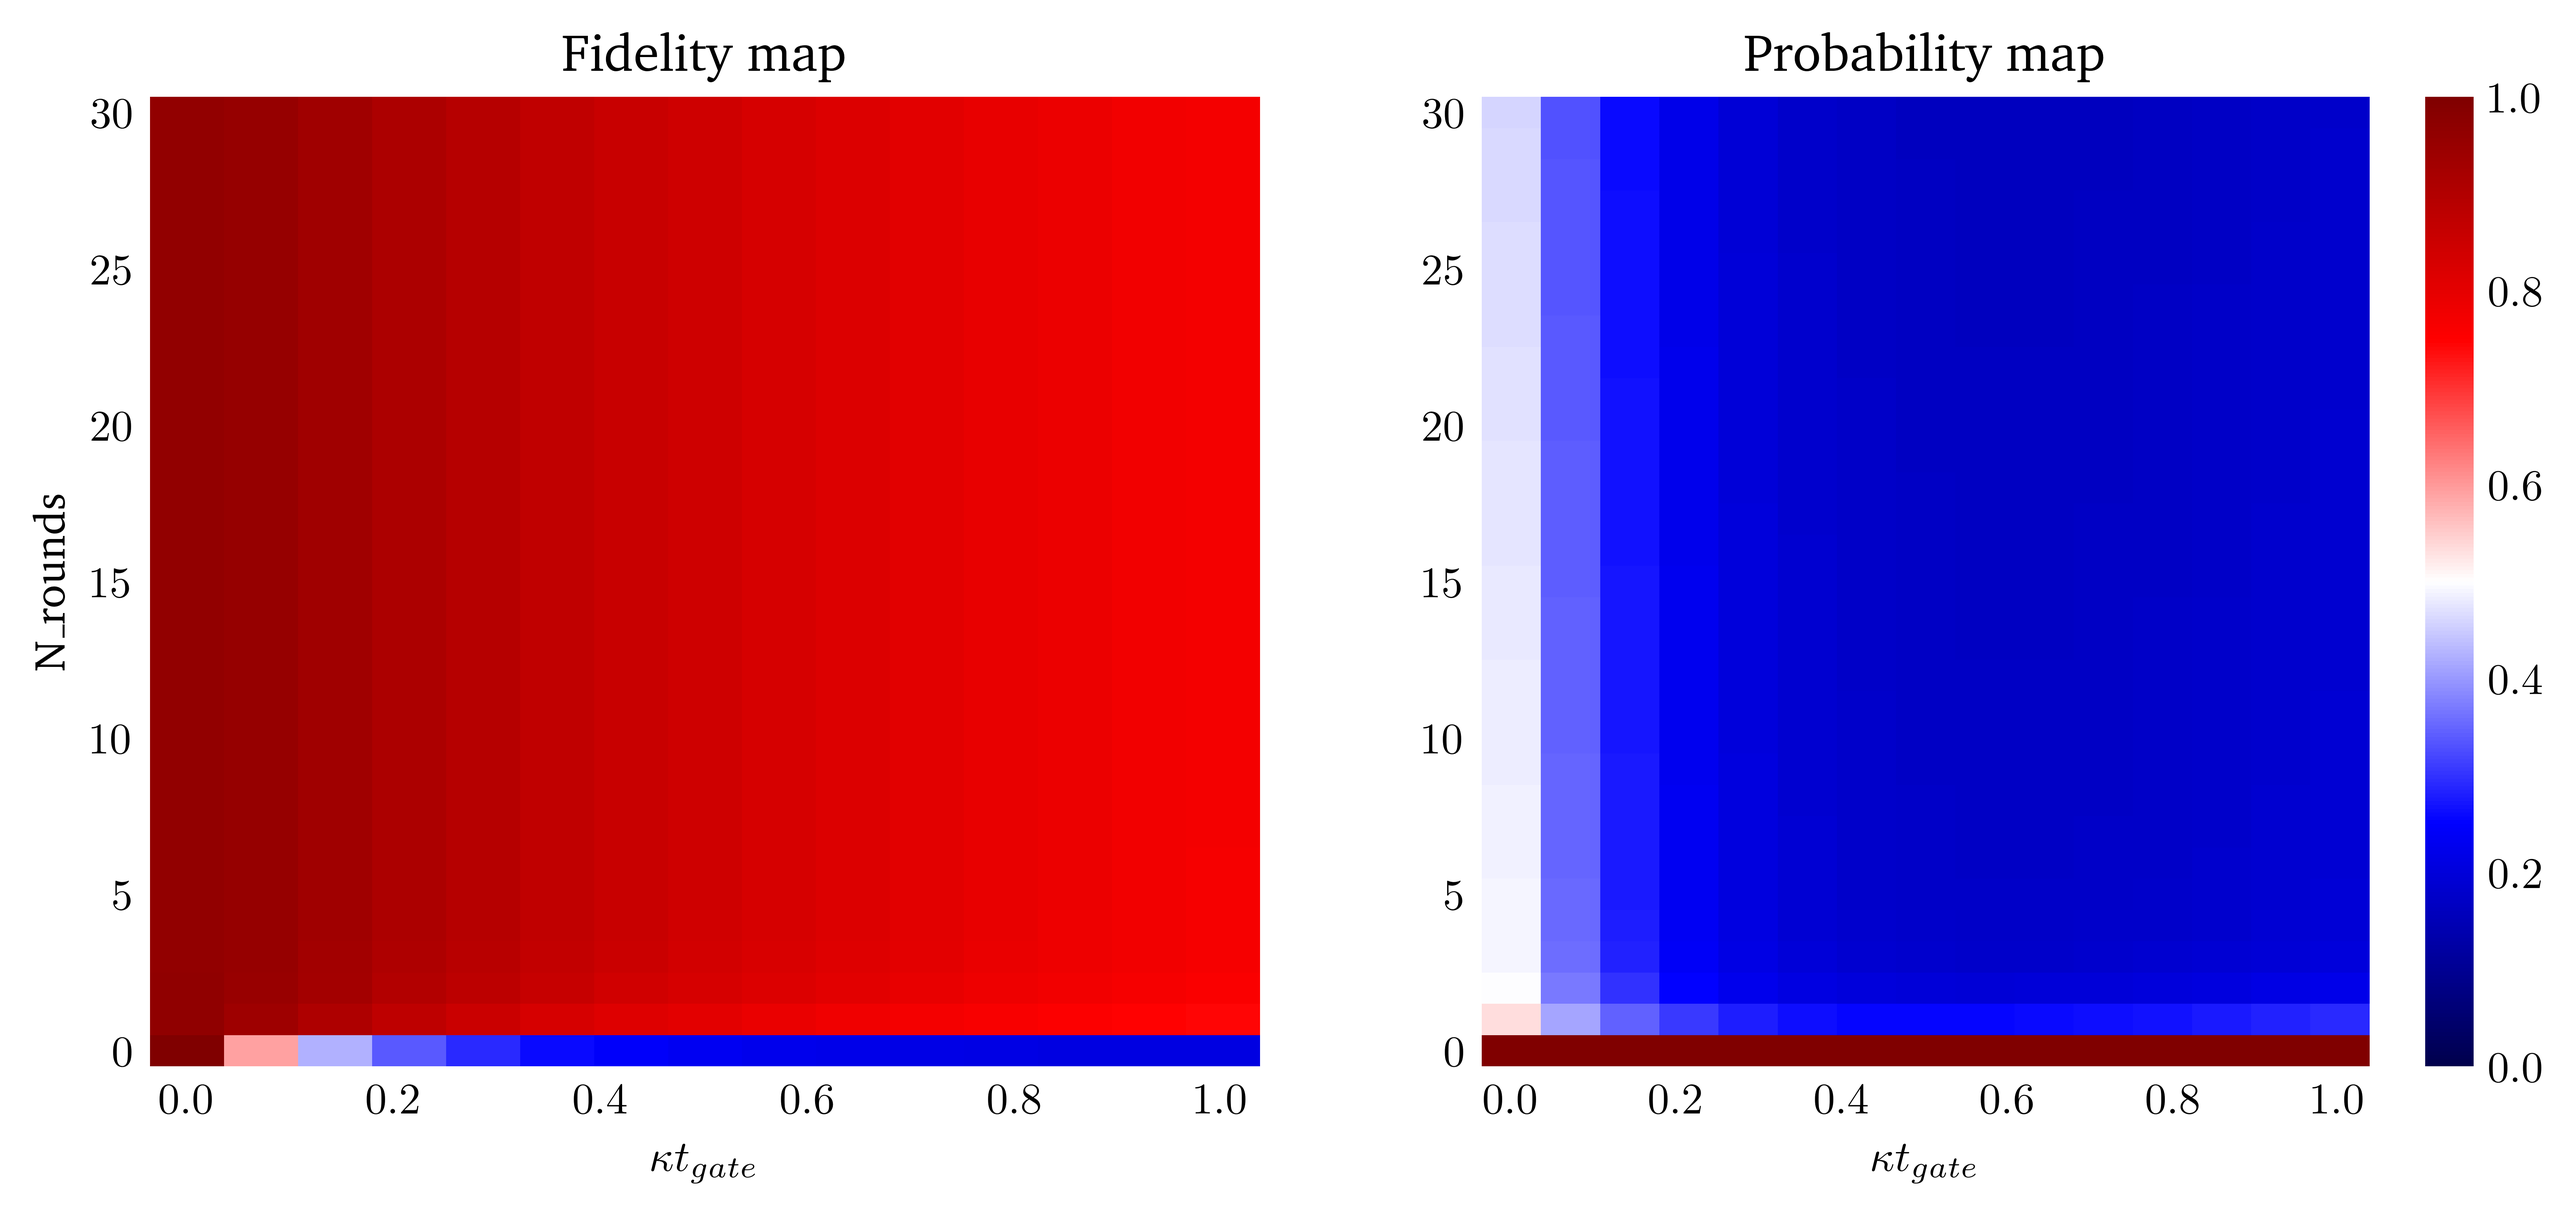
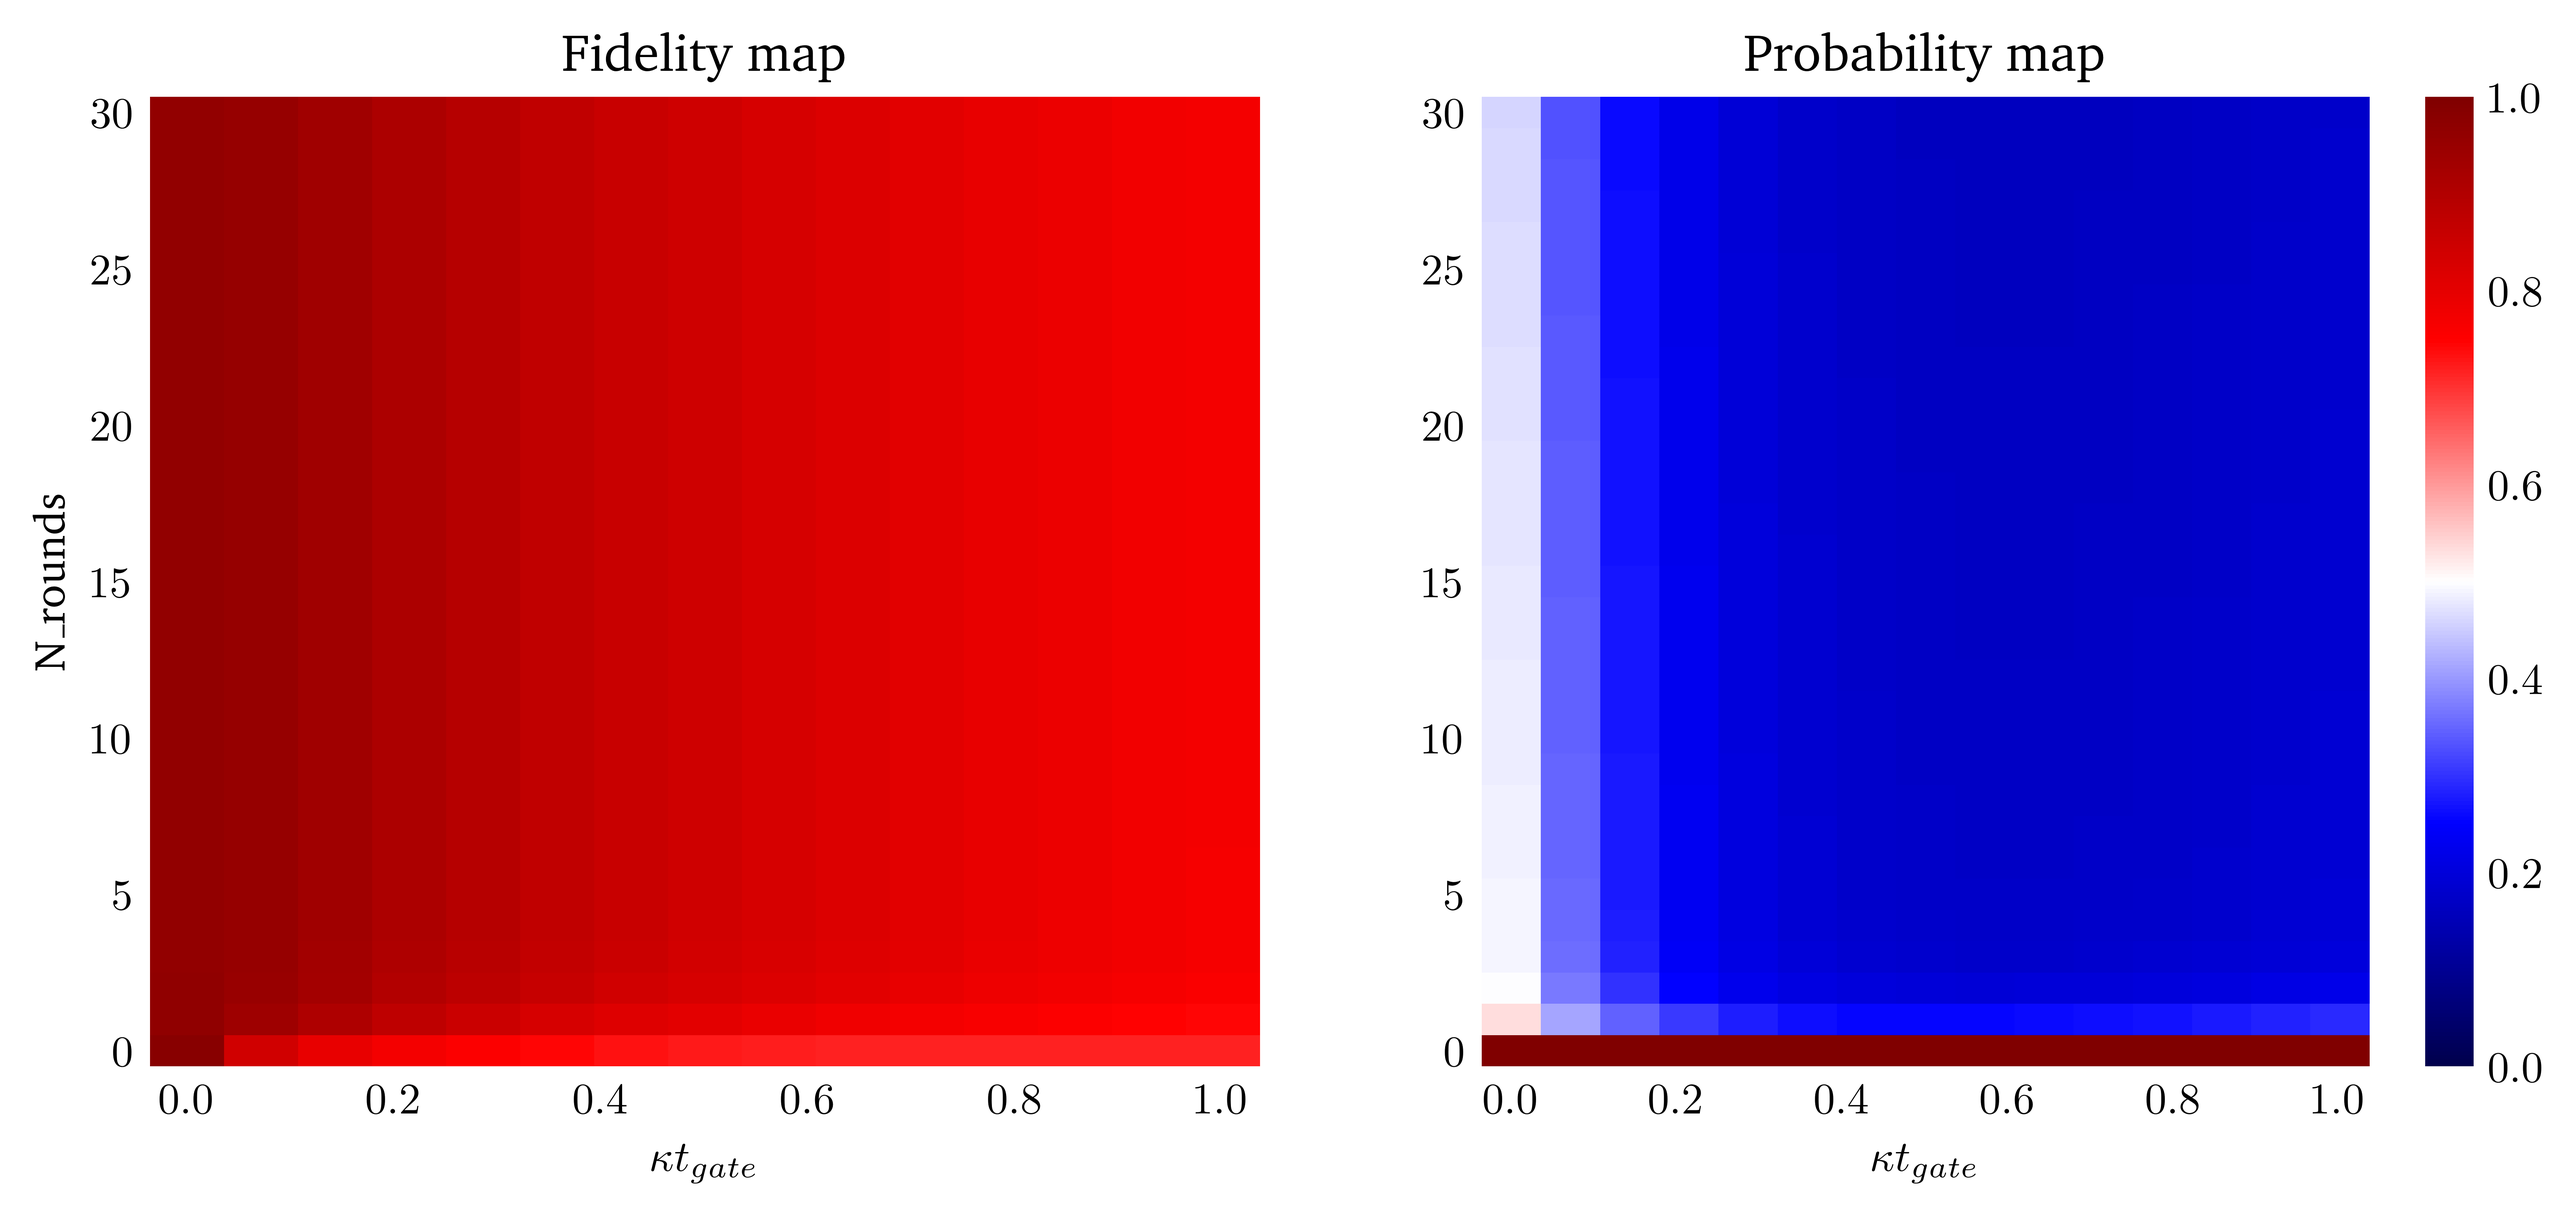
removedtrace

Changed region(s): [[0.0624, 0.8394, 0.4989, 0.9016]]

diff --git a/stage_baptiste/homemades/KrausOperator_JV.py b/stage_baptiste/homemades/KrausOperator_JV.py
@@ -129,10 +129,10 @@ def qb_mapping_fidelity(state,state_ref,basic_qubit_ref):
     dim = state.shape[0]
     Ds = np.sqrt(pi/2), np.sqrt(pi/2)*(1+1j), np.sqrt(pi/2)*1j
     X,Y,Z = [displace(dim, gamma) for gamma in Ds]  # X,Z,Y
-    r_qubit,r_ref = [np.array([(op*st).tr() for op in [X,Y,Z]]) for st in [state,state_ref]]
+    r_qubit,r_ref = [np.array([np.real((op*st).tr()) for op in [X,Y,Z]]) for st in [state,state_ref]]
     sigs = np.array([sigmax(),sigmay(),sigmaz()])
     mapped_qubit,mapped_qubit_ref = [(qeye(2) + Qobj(sum(r[:,None,None]*sigs)))/2 for r in [r_qubit,r_ref]]
-    fid = fidelity(mapped_qubit,mapped_qubit_ref)
+    fid = fidelity(mapped_qubit,basic_qubit_ref)
     return fid
 
 
@@ -253,8 +253,8 @@ def color_maps(GKP_obj,H,t_gate,max_error_rate,max_N_rounds,t_num=10,kap_num=10,
     N_rounds = np.arange(0,max_N_rounds,N_rounds_steps)
     a = destroy(dim)
     options = Options(nsteps=2000)
-    fid_rho = mesolve(-H, state, t_list, [], [], options=options).states[-1]  # reference state for fidelity (no c_ops)
-    print(f"fidelity state done.")
+    fid_rho = mesolve(-H, state, t_list, [], [], options=options).states[-1]  # reference state for fidelity (no c_ops
+    print(f"fidelity state done.")                                            # in evolution)
     e_states = []  # with c_ops evolution
     # evolving the state under photon loss error
     for count,kap in enumerate(kap_list):
@@ -269,7 +269,7 @@ def color_maps(GKP_obj,H,t_gate,max_error_rate,max_N_rounds,t_num=10,kap_num=10,
     for e_state in e_states:
         rho = e_state/e_state.tr()  # uncorrected state
         prob = 1  # probability of getting that state (neglecting randomness in c_op evolution if there is any) ***
-        fidelities.append(fidelity(rho,fid_rho))
+        fidelities.append(get_fidelities(rho,fid_rho,bqr)[qubit_mapping])
         probabilities.append(prob)
         for n_round in range(max_N_rounds):
             if mode == 'random':
@@ -287,7 +287,7 @@ def color_maps(GKP_obj,H,t_gate,max_error_rate,max_N_rounds,t_num=10,kap_num=10,
                 rot_rho = Y*rho*Y.dag()
                 fidelities.append(get_fidelities(rot_rho,fid_rho,bqr)[qubit_mapping])
             else:
-                fidelities.append(get_fidelities(rho, fid_rho,bqr)[qubit_mapping])
+                fidelities.append(get_fidelities(rho,fid_rho,bqr)[qubit_mapping])
             probabilities.append(prob)
     fid_arr,prob_arr = np.real(np.array(fidelities)),np.real(np.array(probabilities))
     # ploting colormaps

diff --git a/stage_baptiste/projects/Kraus_codes/color_maps/colors_maps_analysis.py b/stage_baptiste/projects/Kraus_codes/color_maps/colors_maps_analysis.py
@@ -21,14 +21,19 @@ N_op = a.dag()*a
 GKP_obj = GKP(d,j,delta,hilbert_dim)
 H = N_op**2
 tgate = pi/8
-max_error_rate = 1
+max_error_rate = 1.0
 max_N_rounds = 30
 fig_name = "qbmapping_sqrtH_gg_cmap_2"
 tr_fig_name = "qbmapping_sqrtH_quad_traces_2"
 fig_path = f"/Users/jeremie/Desktop/Stage_Baptiste/stage_baptiste/projects/Kraus_codes/color_maps/figs/"
 ground = basis(2,0)
 sqrtH = np.cos(np.pi/4)*qeye(2) - 1j*np.sin(np.pi/4)*(sigmax()+sigmaz())/np.sqrt(2)
-qms = sqrtH*ground*ground.dag()*sqrtH.dag()
+bqr = sqrtH*ground*ground.dag()*sqrtH.dag()
 color_maps(GKP_obj, H, tgate, max_error_rate, max_N_rounds, kap_num=15, mode='gg',
-           traces=True,traces_ix=[[2,4,6,8],[2,4,6,8]],qubit_mapping=True,qms=qms,
+           traces=True,traces_ix=[[2,4,6,8],[2,4,6,8]],qubit_mapping=True,bqr=bqr,
            fig_name=fig_name,traces_fig_name=tr_fig_name,fig_path=fig_path,show=True)
+
+
+# methode du paysan (diviser par le max)
+# methode du fonctionnaire (améliorer les bins)
+# methode du roi
